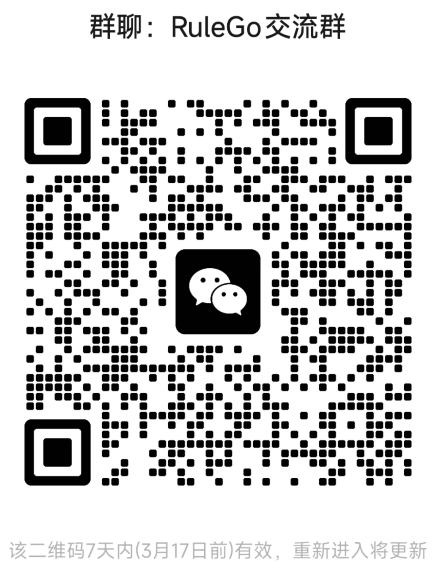
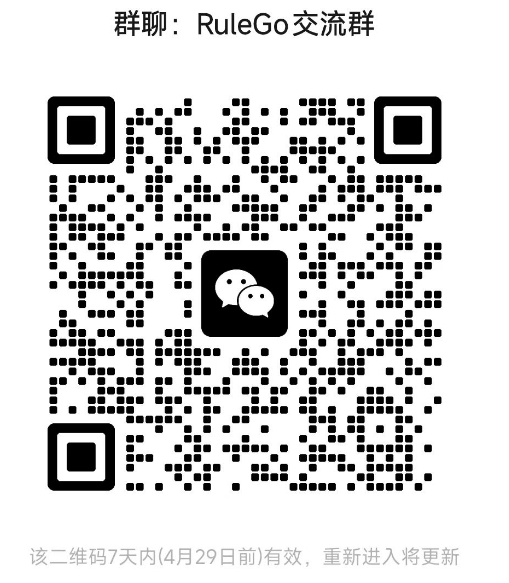
更新微信群二维码

diff --git a/docs/.vuepress/config/en/nav.js b/docs/.vuepress/config/en/nav.js
@@ -38,7 +38,9 @@ module.exports = [
         text: "🍭Ecosystem",
         link: "#1",
         items: [
-            {text: "Visual Editor", link: "https://editor.rulego.cc/"},
+            {text: "RuleGo Editor", link: "https://editor.rulego.cc/"},
+            { text: "RuleGo Example", link: "https://example.rulego.cc/" }
+
         ]
     },
     // {text: "💖Sponsor", link: "/en/pages/ccf224/"},

diff --git a/docs/.vuepress/config/nav.js b/docs/.vuepress/config/nav.js
@@ -39,6 +39,7 @@ module.exports = [
     link: "#1",
     items: [
       { text: "可视化编辑器", link: "https://editor.rulego.cc/" },
+      { text: "应用开发脚手架", link: "https://example.rulego.cc/" }
     ]
   },
   { text: "💖支持", link: "/pages/ccf224/" },
